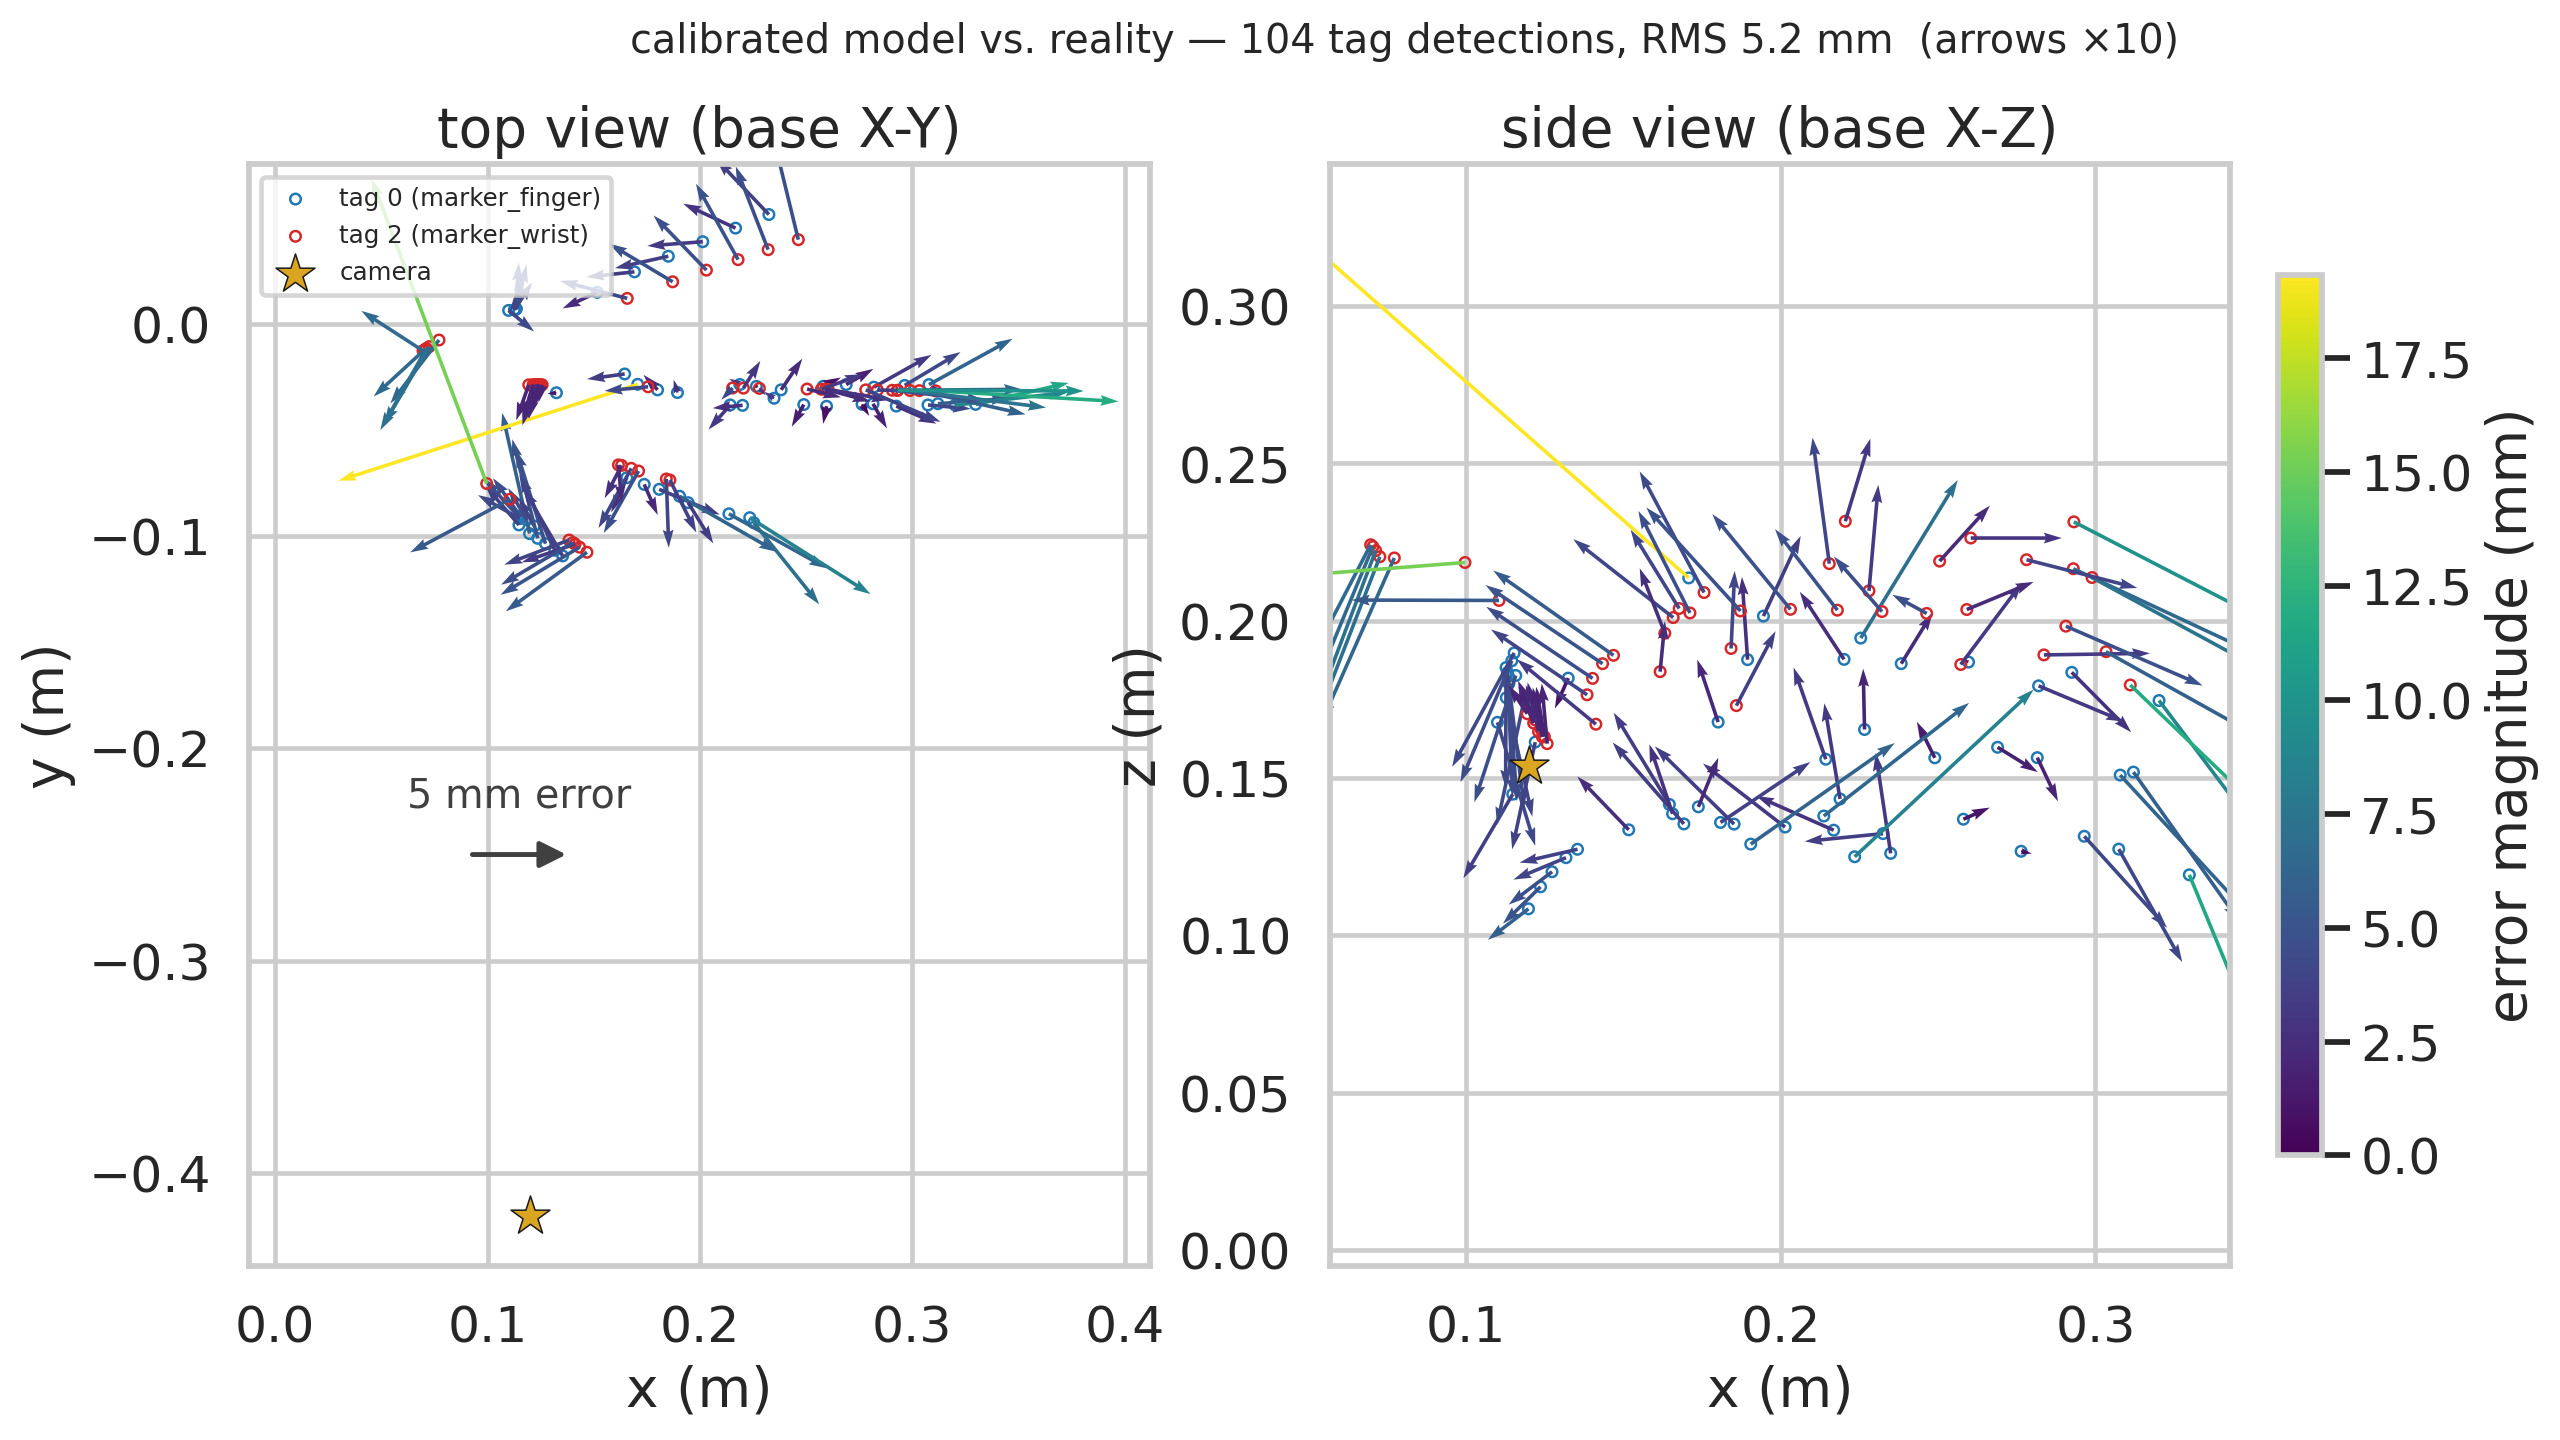
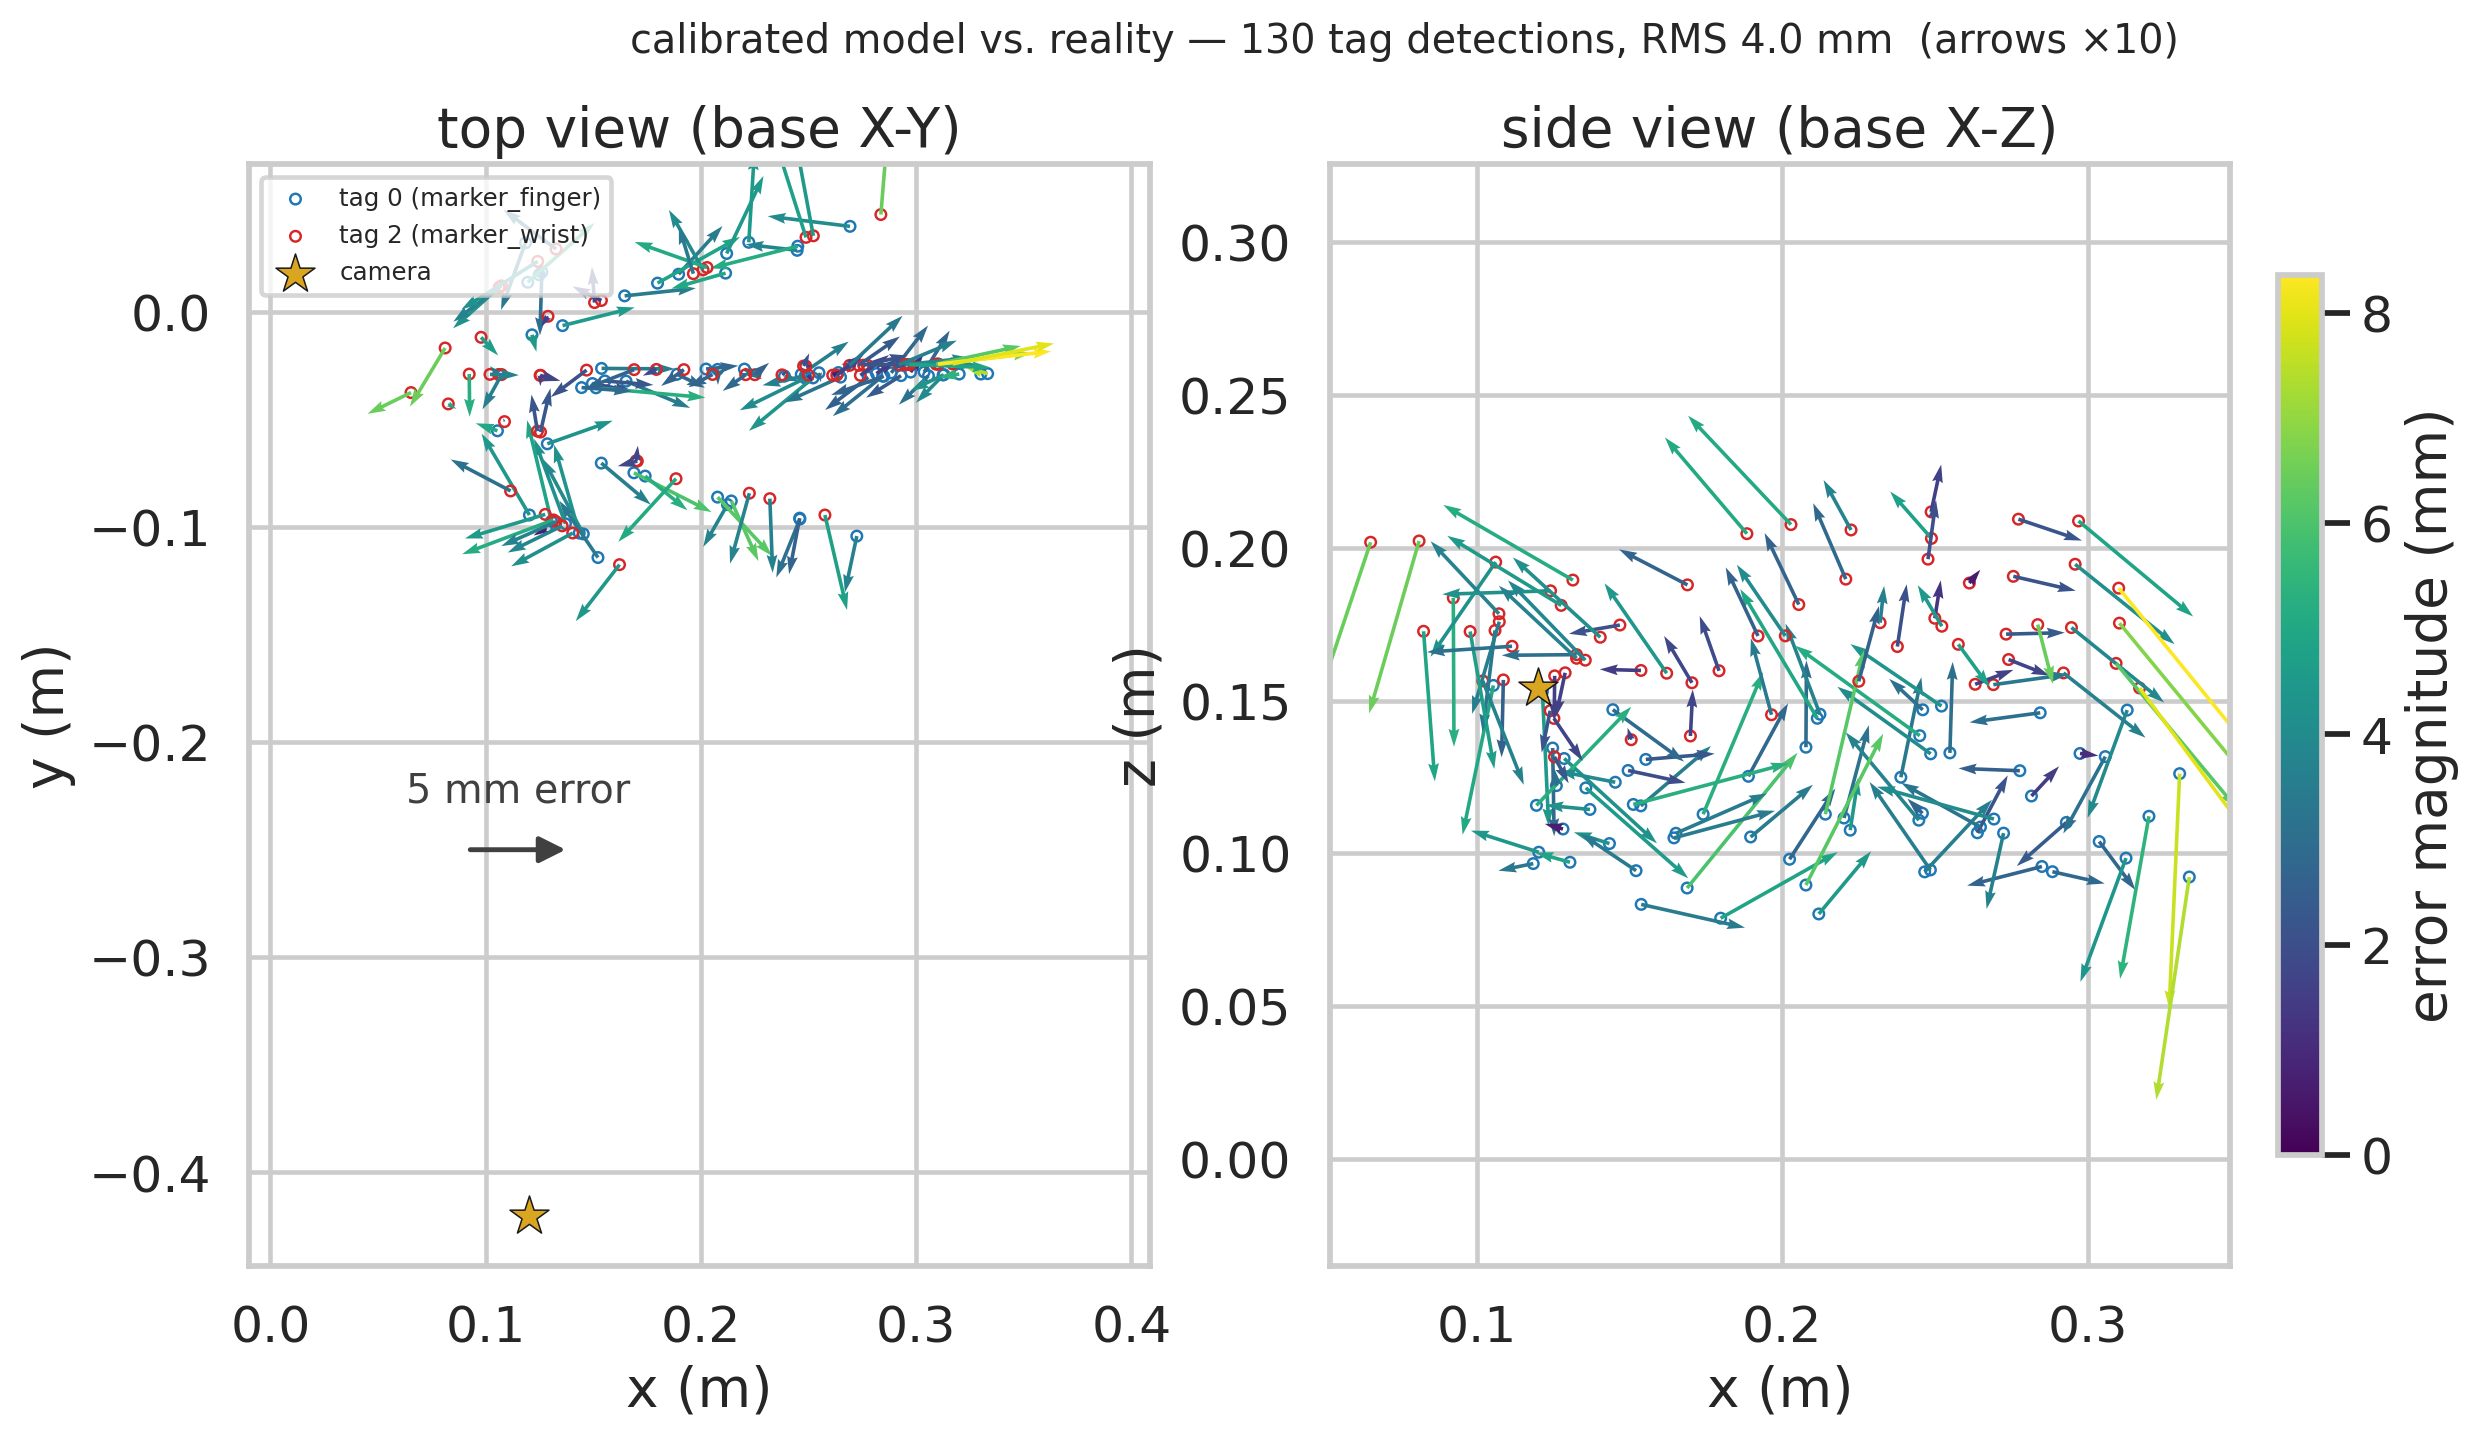
Evaluate committed artifacts in the residual plot instead of re-solving
compute_residuals mixed the gravity-settled bias solve with the unsettled
calib_solve camera fit and skipped the mounts and outlier rejection, so its
printed bias disagreed with calibration.yaml (wrist_flex +1.28 vs -0.26 deg).

Re-running the exact solve wouldn't fix it for good either: now that the
solved mounts are written back into the XML, a re-solve anchors the mount
prior at the updated sites and lands ~0.3 deg away from the committed bias.
Since every artifact is persisted (bias in calibration.yaml, camera in
extrinsics.yaml, mounts in the XML sites), the plot now just evaluates the
committed model through the settled FK — no solving, so it can never drift
from what deployment uses. Printed bias and RMS match calibration.yaml to
the digit; detections the solve rejected as outliers stay plotted and stick
out, which is the point of a residual map. calib_residuals.png regenerated
(was from the old high-band sweep).

diff --git a/real/plot_calib_residuals.py b/real/plot_calib_residuals.py
@@ -6,9 +6,11 @@ the *camera* actually saw it (`T_base_cam . tvec`, base frame). The arrow is pla
 at the model prediction and points to reality, so its length is the leftover error
 after calibration and its direction tells you *which way* the model is wrong there.
 
-The bias and camera pose are re-solved from the samples (not read from the saved
-YAMLs), so the picture is exactly the fit that calibrate_qpos committed — same
-single source of truth, no drift.
+The committed artifacts are evaluated as-is — bias from calibration.yaml, camera
+from extrinsics.yaml, marker sites (solved mounts included) from the XML — with the
+same gravity-settled FK the solve used. No re-solving, so the plot can never drift
+from the model deployment actually uses. Detections the calibration rejected as
+outliers are still plotted; they stick out, which is the point of a residual map.
 
 Two base-frame views (top X-Y and side X-Z) together carry all three error
 components; arrow colour is the full 3-D magnitude so hotspots show in either view.
@@ -29,8 +31,10 @@ import mujoco
 import numpy as np
 import seaborn as sns
 
-from real.calib_solve import load_samples, paired_points, solve_camera
-from real.calibrate_qpos import DEFAULT_CAL, DEFAULT_XML, SAMPLES_PATH, solve_bias
+from real.calib_solve import load_samples
+from real.calibrate_qpos import DEFAULT_CAL, DEFAULT_XML, SAMPLES_PATH, paired_points
+from real.calibration import load_calibration
+from real.extrinsics import load_extrinsics
 from real.marker_spec import ARM_TAG_TO_SITE
 from real.twin.mapping import JOINT_NAMES, load_joint_maps
 from src.base_env import tag_cam_world_pos
@@ -43,15 +47,16 @@ DPI = 220
 
 
 def compute_residuals(samples, model, data, qposadr, site_ids):
-    """Return (p_model, resid, tags): per detected tag, the calibrated-model base
-    position, the (camera - model) error vector, and the tag id. Same ordering and
-    solve as report_and_save, so magnitudes match the committed RMS."""
-    b_full = solve_bias(samples, model, data, qposadr, site_ids)
+    """Return (p_model, resid, tags, b_full): per detection, the committed-model
+    base position, the (camera - model) error vector, and the tag id. Pure
+    evaluation of the saved artifacts (calibration.yaml bias, extrinsics.yaml
+    camera, XML sites) through the settled FK — no re-solving."""
+    b_full = load_calibration()
+    _, T_base_cam, _, _ = load_extrinsics()
     corrected = [(qpos - b_full, poses) for qpos, poses in samples]
-    T_base_cam, _, _, _ = solve_camera(corrected, model, data, qposadr, site_ids)
     src, dst, tags = paired_points(corrected, model, data, qposadr, site_ids)
     R, t = T_base_cam[:3, :3], T_base_cam[:3, 3]
-    p_model = dst                       # FK(theta_enc - bias), base frame
+    p_model = dst                       # settled FK(theta_enc - bias), base frame
     p_obs = src @ R.T + t               # camera tag centre mapped into base frame
     return p_model, p_obs - p_model, tags, b_full
 
@@ -132,9 +137,10 @@ def main():
     p_model, resid, tags, b_full = compute_residuals(
         samples, model, data, jm.qposadr(), site_ids)
     rms_mm = np.sqrt(np.mean(np.sum(resid ** 2, axis=1))) * 1000.0
-    print("solved bias (deg): " + ", ".join(
+    print("committed bias (deg): " + ", ".join(
         f"{n}={np.degrees(b):+.2f}" for n, b in zip(JOINT_NAMES, b_full)))
-    print(f"residual RMS {rms_mm:.2f} mm over {len(tags)} detections")
+    print(f"residual RMS {rms_mm:.2f} mm over {len(tags)} detections "
+          "(all detections incl. any the solve rejected)")
     plot(p_model, resid, tags, tag_cam_world_pos(model, data), args.out, rms_mm)
 
 
